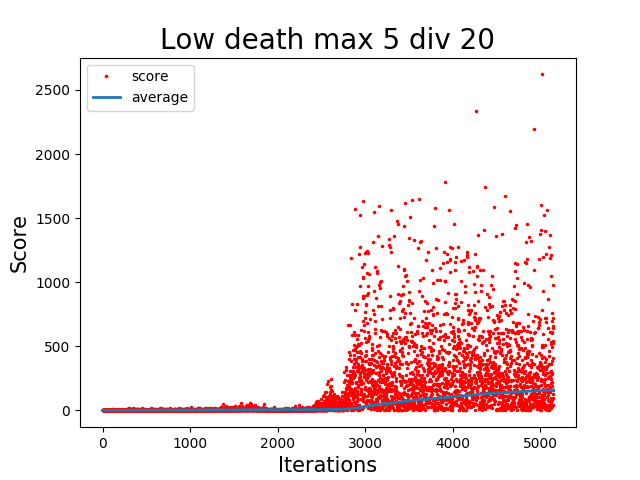
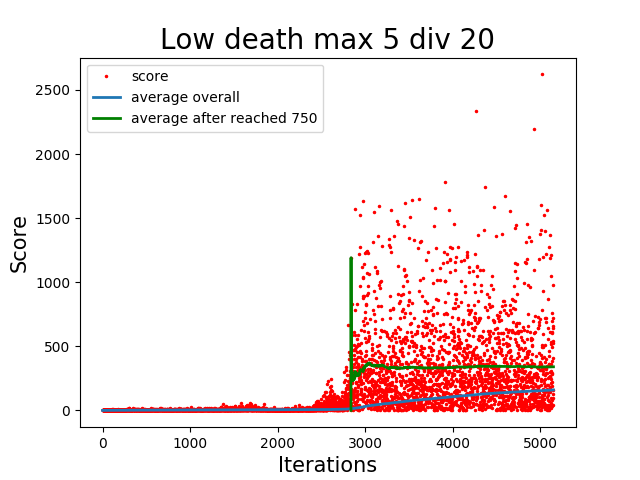
Add files via upload

Changed region(s): [[0.125, 0.1875, 0.5, 0.2812], [0.5312, 0.5312, 0.875, 0.8438]]

diff --git a/low_death max 5 divided by 20/ploting_scores.py b/low_death max 5 divided by 20/ploting_scores.py
@@ -26,17 +26,29 @@ n = len(x)
 
 timer = n * 1.5
 timer += sum(y)*0.6
-pretty_time = time.strftime('%d:%H:%M:%S', time.gmtime(timer))
-days = int(pretty_time.split(':')[0])
+pretty_time = time.strftime('%dd:%Hh:%Mm:%Ss', time.gmtime(timer))
+days = int(pretty_time.split(':')[0][:2])
 days = days-1
 pretty_time = str(int(days / 10))+str(int(days %10))+pretty_time[2:]
 
 
-print("Timer: ", pretty_time, "\nIterations: ", n, "\nAverage score: ", mean(y), )
+stable_x = 0
+for i in y:
+    if i > 750:
+        break
+    stable_x +=1
 
+stable_x_list = x[stable_x:]
+stable_y_list = y[stable_x:]
+avg_list_better = [mean_with_length(stable_y_list,i) for i in range(len(stable_y_list))]
+
+
+print("Timer: ", pretty_time, "\nIterations: ", n, "\nAverage overall: ", mean(y))
+print("Average after reached 750: ", mean(stable_y_list),"\nMax: ", max(y))
 
 plt.plot(x,y,'r.', label = 'score', ms = 3)
-plt.plot(x,avg_list, lw = 2, label = 'average')
+plt.plot(x,avg_list, lw = 2, label = 'average overall')
+plt.plot(stable_x_list, avg_list_better, label = 'average after reached 750', lw = 2, color = 'green')
 plt.xlabel('Iterations', fontsize = 15)
 plt.ylabel('Score', fontsize = 15)
 plt.title('Low death max 5 div 20', fontsize = 20)
